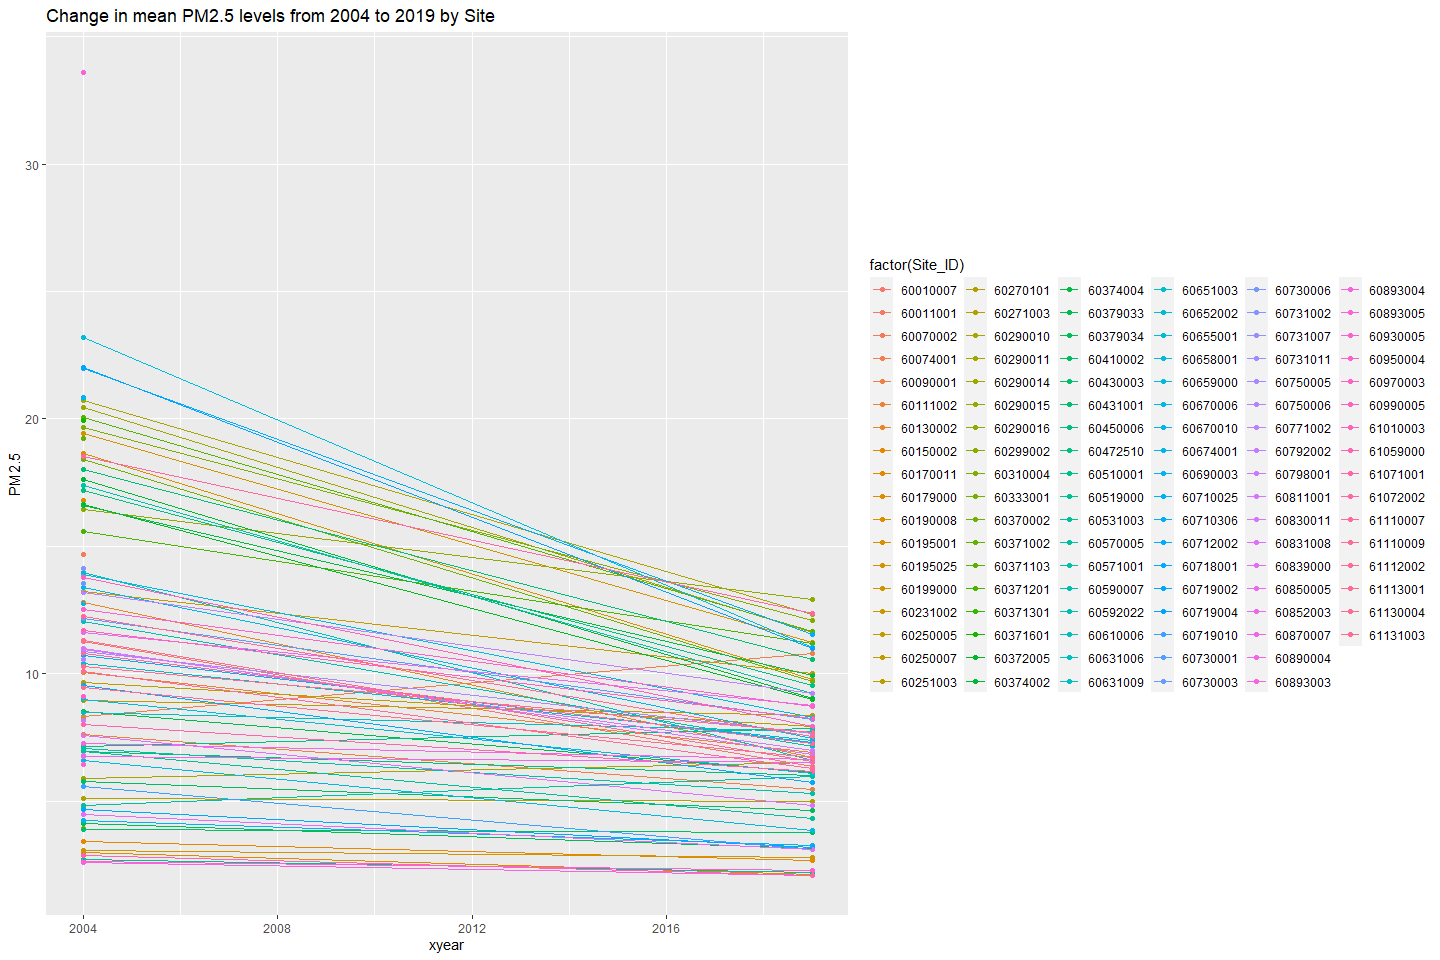
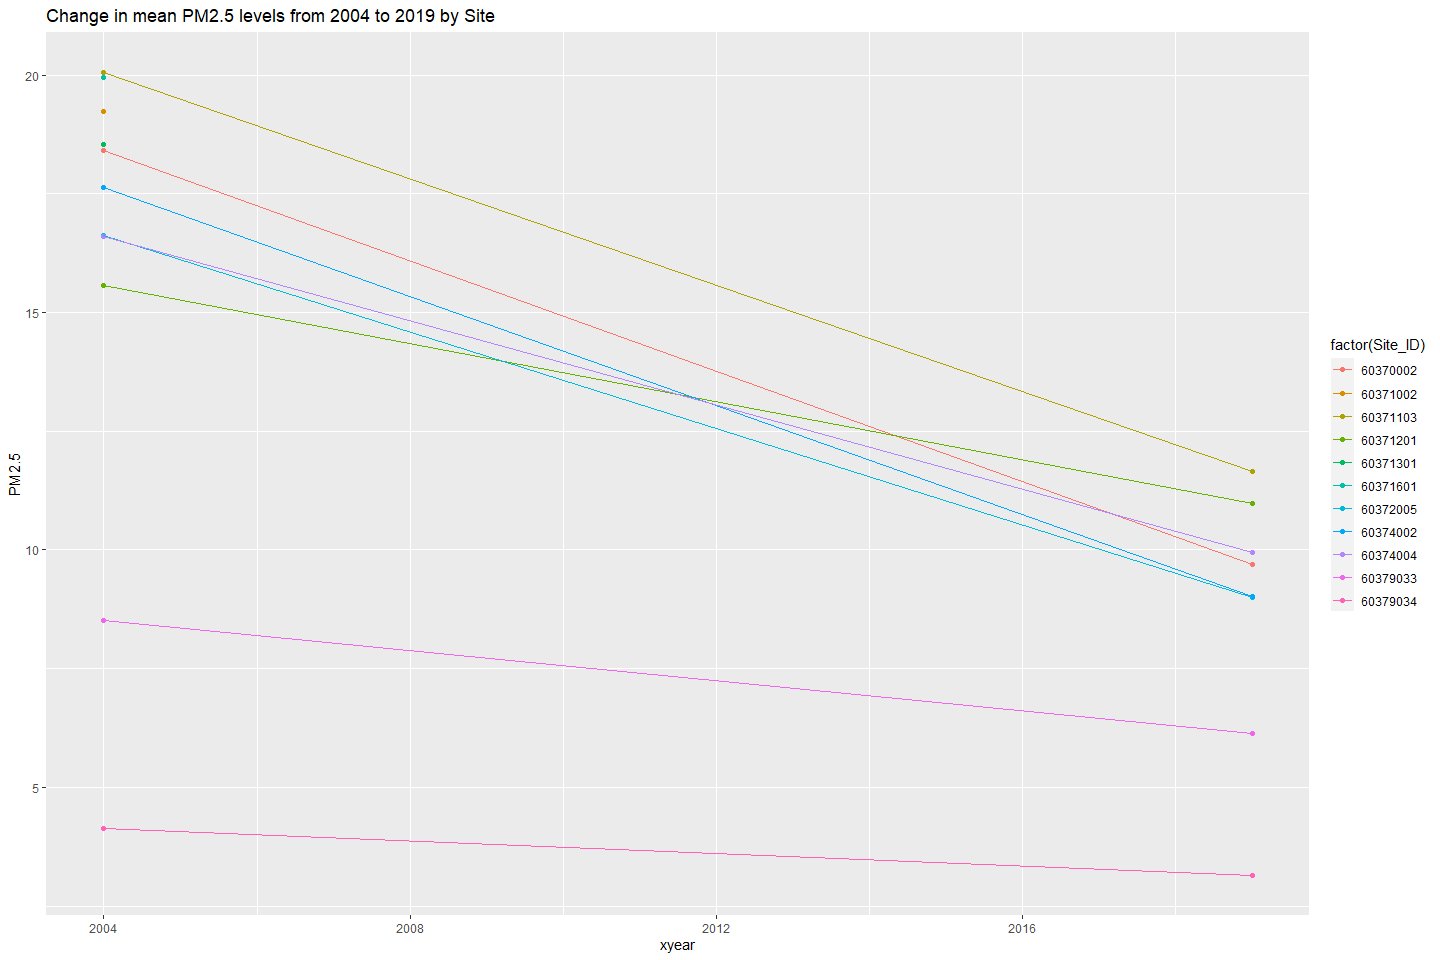
site in los angeles

diff --git a/Assignment 1/Assignment-01---Exploratory-Data-Analysis.md b/Assignment 1/Assignment-01---Exploratory-Data-Analysis.md
@@ -1,7 +1,7 @@
 Assignment 01 - Exploratory Data Analysis
 ================
 Tzu Yu Huang
-2022-09-23
+2022-09-24
 
 ## 1. Read in the data, packages, and conduct EDA Checklist
 
@@ -541,7 +541,7 @@ significantly further from 120.90, which makes it look very suspicious.
 And I will therefore remove it from the dataset.
 
 ``` r
-test <- data19[data19$`Daily Mean PM2.5 Concentration` < 120.90]
+data19 <- data19[data19$`Daily Mean PM2.5 Concentration` < 120.90]
 ```
 
 ## Step 2. Combine the two years of data into one data frame. Use the Date variable to create a new column for year, which will serve as an identifier. Change the names of the key variables so that they are easier to refer to in your code.
@@ -588,25 +588,25 @@ nrow(data[Year == 2004])
 nrow(data[Year == 2019])
 ```
 
-    ## [1] 53156
+    ## [1] 53155
 
 ``` r
 nrow(data)
 ```
 
-    ## [1] 72389
+    ## [1] 72388
 
 ``` r
 nrow(data[Year == 2004])/nrow(data)
 ```
 
-    ## [1] 0.2656895
+    ## [1] 0.2656932
 
 ``` r
 nrow(data[Year == 2019])/nrow(data)
 ```
 
-    ## [1] 0.7343105
+    ## [1] 0.7343068
 
 ``` r
 ggplot(data = data) + 
@@ -789,12 +789,13 @@ qplot(xyear, PM2.5, data = mutate(county_mean_both, xyear = as.numeric(as.charac
 For both mean and median, the overall trend for the level of PM2.5 from
 2019 seems to be lower than 2004.
 
-# Site level analysis_datatset_prep
+# Site (in Los Angeles) level analysis_datatset_prep
 
 Using information only from sites that exist in both years. To control
 for confounding.
 
 ``` r
+data <- data[COUNTY == "Los Angeles"]
 Site_median <- group_by(data, Year, Site_ID) %>% summarize(PM2.5 = mean(PM2.5, na.rm= TRUE))
 ```
 
@@ -809,18 +810,18 @@ head(site_median_both)
     ## # Groups:   Year [1]
     ##    Year  Site_ID PM2.5
     ##   <dbl>    <int> <dbl>
-    ## 1  2004 60010007 11.3 
-    ## 2  2004 60011001 10.1 
-    ## 3  2004 60070002 14.7 
-    ## 4  2004 60074001  8.32
-    ## 5  2004 60090001  7.61
-    ## 6  2004 60111002 10.0
+    ## 1  2004 60370002  18.4
+    ## 2  2004 60371002  19.2
+    ## 3  2004 60371103  20.1
+    ## 4  2004 60371201  15.6
+    ## 5  2004 60371301  18.5
+    ## 6  2004 60371601  19.9
 
 ``` r
 dim(site_median_both)
 ```
 
-    ## [1] 184   3
+    ## [1] 19  3
 
 ``` r
 Site_mean <- group_by(data, Year, Site_ID) %>% summarize(PM2.5 = mean(PM2.5, na.rm= TRUE))
@@ -837,18 +838,18 @@ head(site_mean_both)
     ## # Groups:   Year [1]
     ##    Year  Site_ID PM2.5
     ##   <dbl>    <int> <dbl>
-    ## 1  2004 60010007 11.3 
-    ## 2  2004 60011001 10.1 
-    ## 3  2004 60070002 14.7 
-    ## 4  2004 60074001  8.32
-    ## 5  2004 60090001  7.61
-    ## 6  2004 60111002 10.0
+    ## 1  2004 60370002  18.4
+    ## 2  2004 60371002  19.2
+    ## 3  2004 60371103  20.1
+    ## 4  2004 60371201  15.6
+    ## 5  2004 60371301  18.5
+    ## 6  2004 60371601  19.9
 
 ``` r
 dim(site_mean_both)
 ```
 
-    ## [1] 184   3
+    ## [1] 19  3
 
 # Site level analysis_plot
 
